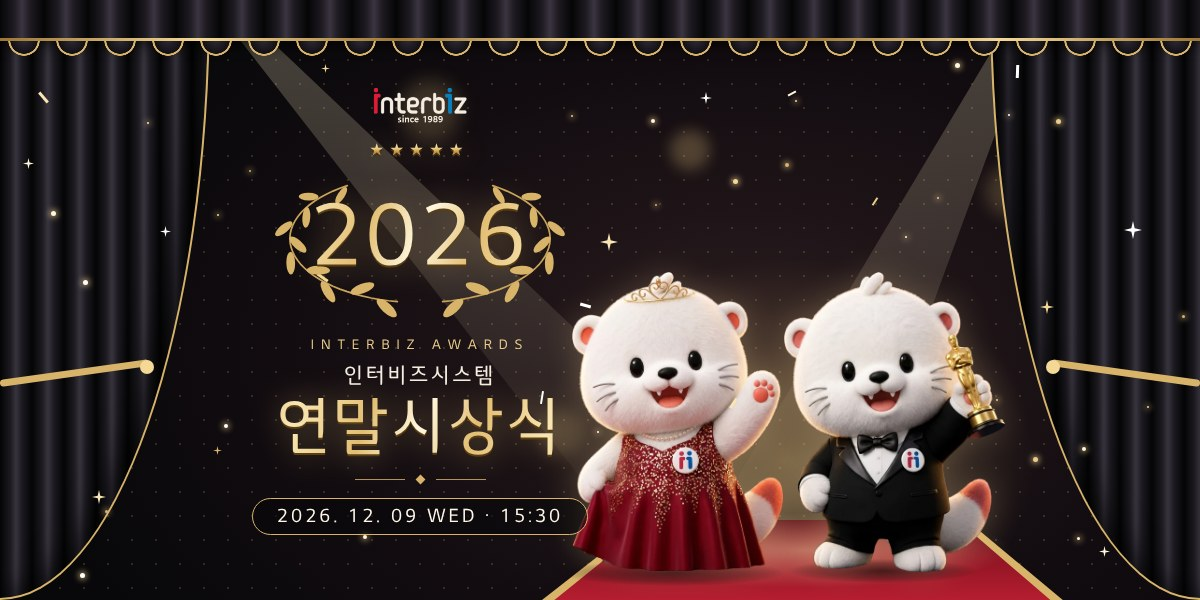
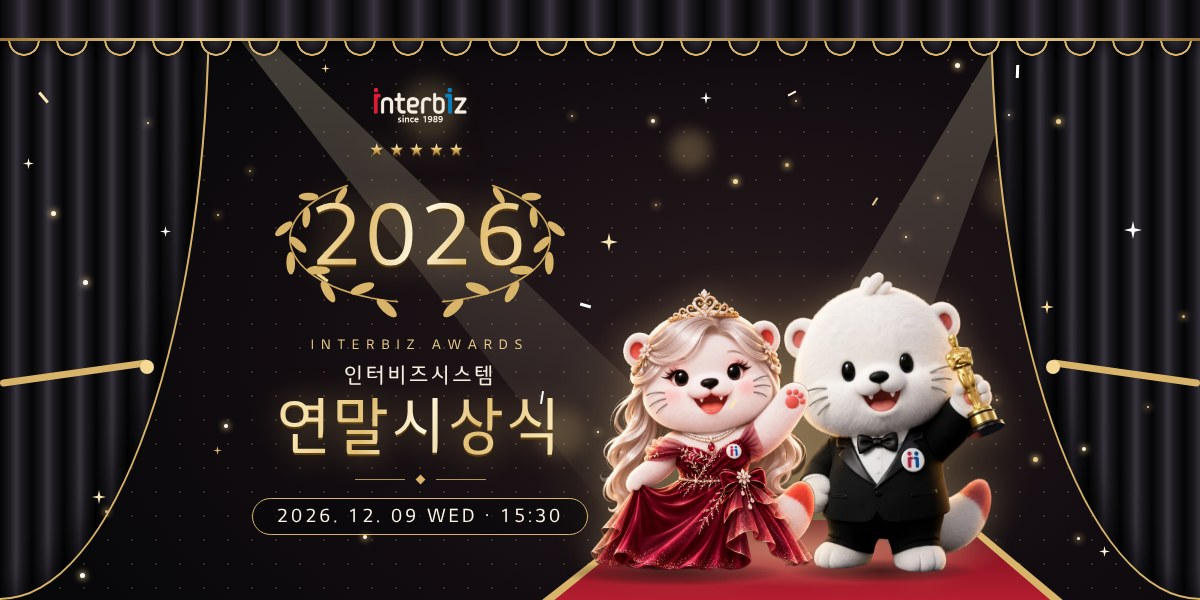
드레스 마스코트 이미지 교체 (표지·하단·카카오톡 미리보기)
Claude-Session: https://claude.ai/code/session_01Jn6WcWmcb5sRoNZxusdJP8

Changed region(s): [[0.4625, 0.45, 0.6783, 0.96]]

diff --git a/index.html b/index.html
@@ -12,7 +12,7 @@
 <meta property="og:title" content="2026 INTERBIZ AWARDS · 인터비즈시스템 연말시상식">
 <meta property="og:description" content="2026년 12월 9일(수) 오후 3시 30분 · 코엑스마곡 그래머시 르웨스트 B홀">
 <meta property="og:url" content="https://interbizai.github.io/interbiz2026awardsceremony/">
-<meta property="og:image" content="https://interbizai.github.io/interbiz2026awardsceremony/assets/og-image.jpg">
+<meta property="og:image" content="https://interbizai.github.io/interbiz2026awardsceremony/assets/og-image.jpg?v=2">
 <meta property="og:image:width" content="1200">
 <meta property="og:image:height" content="600">
 <meta property="og:image:alt" content="2026 인터비즈시스템 연말시상식 초대장">
@@ -20,7 +20,7 @@
 <meta name="twitter:card" content="summary_large_image">
 <meta name="twitter:title" content="2026 INTERBIZ AWARDS · 인터비즈시스템 연말시상식">
 <meta name="twitter:description" content="2026년 12월 9일(수) 오후 3시 30분 · 코엑스마곡 그래머시 르웨스트 B홀">
-<meta name="twitter:image" content="https://interbizai.github.io/interbiz2026awardsceremony/assets/og-image.jpg">
+<meta name="twitter:image" content="https://interbizai.github.io/interbiz2026awardsceremony/assets/og-image.jpg?v=2">
 <link rel="icon" type="image/png" href="assets/favicon.png">
 <link rel="apple-touch-icon" href="assets/apple-touch-icon.png">
 <link rel="preload" href="assets/LGSmartH.woff2" as="font" type="font/woff2" crossorigin>
@@ -138,7 +138,7 @@ button,a{-webkit-tap-highlight-color:transparent}
 <div aria-hidden="true" style="position: absolute; z-index: 12; left: 0; top: 32px; width: 390px; height: 3px; background: linear-gradient(90deg, #9C7635, #F3D896, #9C7635, #F3D896, #9C7635)"></div>
 
 <img class="bob alt" src="assets/mascot-tux.webp" alt="턱시도를 입고 트로피를 든 인터비즈 마스코트" style="position: absolute; z-index: 2; left: 204px; top: 512px; width: 183px; height: auto">
-<img class="bob" src="assets/mascot-gown.webp" alt="드레스를 입은 인터비즈 마스코트" style="position: absolute; z-index: 2; left: 38px; top: 512px; width: 175px; height: auto">
+<img class="bob" src="assets/mascot-gown.webp" alt="드레스를 입은 인터비즈 마스코트" style="position: absolute; z-index: 2; left: 14px; top: 503px; width: 204px; height: auto">
 
 <img class="intro i1" src="assets/logo-reverse.png" alt="interbiz since 1989" style="position: absolute; left: 50%; top: 88px; width: 84px; height: auto; margin-left: -42px">
 <p class="gold intro i2" style="position: absolute; left: 0; right: 0; top: 132px; margin: 0; text-align: center; font-size: 12px; letter-spacing: 6px; color: #E9CD8C">★★★★★</p>
@@ -535,7 +535,7 @@ button,a{-webkit-tap-highlight-color:transparent}
 <div aria-hidden="true" style="position: absolute; left: 5px; top: 153px; width: 112px; height: 14px; border-radius: 50%; background: radial-gradient(ellipse, rgba(0,0,0,0.75) 0%, rgba(0,0,0,0.35) 45%, rgba(0,0,0,0) 72%)"></div>
 <div aria-hidden="true" style="position: absolute; left: 122px; top: 153px; width: 96px; height: 13px; border-radius: 50%; background: radial-gradient(ellipse, rgba(0,0,0,0.75) 0%, rgba(0,0,0,0.35) 45%, rgba(0,0,0,0) 72%)"></div>
 <img class="bob alt" src="assets/mascot-tux.webp" alt="" style="position: absolute; left: 120px; top: 10px; width: 111px; height: auto">
-<img class="bob" src="assets/mascot-gown.webp" alt="" style="position: absolute; left: 10px; top: 10px; width: 106px; height: auto">
+<img class="bob" src="assets/mascot-gown.webp" alt="" style="position: absolute; left: 0px; top: 4px; width: 124px; height: auto">
 </div>
 <p class="gold" style="position: relative; margin: 16px 0 0; font-size: 20px; line-height: 1.5; color: #E9CD8C">멋진 무대의 주인공이 될<br>기회를 놓치지 마세요</p>
 <p style="position: relative; margin: 10px 0 0; font-size: 13.5px; line-height: 1.7; color: #A9A39A">임직원 여러분의 수많은 도전과 추천을 기다립니다!</p>
@@ -641,7 +641,7 @@ button,a{-webkit-tap-highlight-color:transparent}
   function share(){
     var url = pageUrl();
     if (kakaoReady()) {
-      window.Kakao.Share.sendDefault({ objectType: 'feed', content: { title: shareData.title, description: shareData.text, imageUrl: SITE_URL + '/assets/og-image.jpg', imageWidth: 1200, imageHeight: 600, link: { mobileWebUrl: url, webUrl: url } }, buttons: [{ title: '초대장 보기', link: { mobileWebUrl: url, webUrl: url } }] });
+      window.Kakao.Share.sendDefault({ objectType: 'feed', content: { title: shareData.title, description: shareData.text, imageUrl: SITE_URL + '/assets/og-image.jpg?v=2', imageWidth: 1200, imageHeight: 600, link: { mobileWebUrl: url, webUrl: url } }, buttons: [{ title: '초대장 보기', link: { mobileWebUrl: url, webUrl: url } }] });
       return;
     }
     if (navigator.share) { navigator.share({ title: shareData.title, text: shareData.text, url: url }).catch(function(){}); return; }
